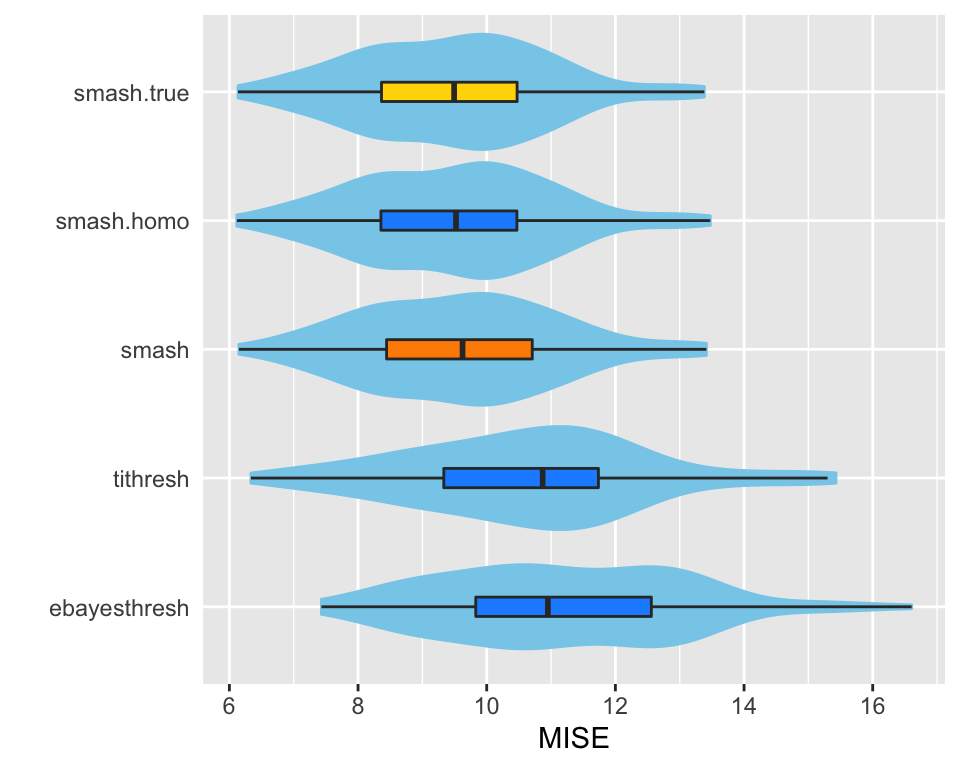
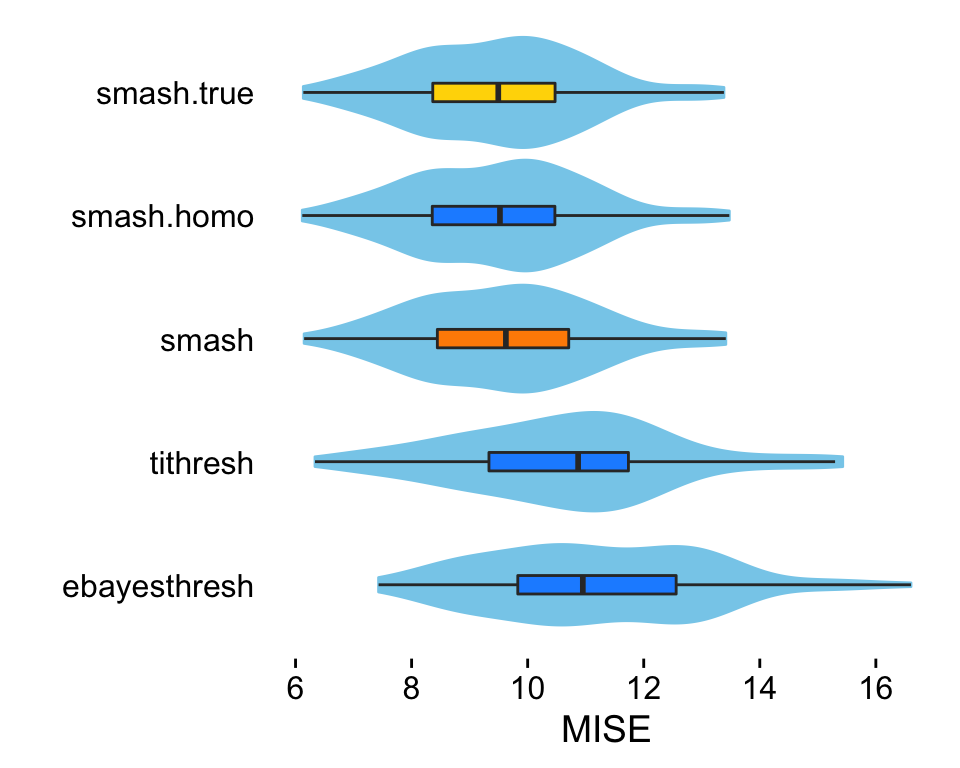
Fixed plotting settings in "gaussmeanest" workflowr analysis.

diff --git a/docs/gaussmeanest.html b/docs/gaussmeanest.html
@@ -420,16 +420,16 @@ This reproducible <a href="http://rmarkdown.rstudio.com">R Markdown</a> analysis
 <div class="panel panel-default">
 <div class="panel-heading">
 <p class="panel-title">
-<a data-toggle="collapse" data-parent="#workflowr-checks" href="#strongRepositoryversionstrongahrefhttpsgithubcomstephenslabsmashpapertree571a2214f9755384dfbf3bd74c1052a07ad452betargetblank571a221a"> <span class="glyphicon glyphicon-ok text-success" aria-hidden="true"></span> <strong>Repository version:</strong> <a href="https://github.com/stephenslab/smash-paper/tree/571a2214f9755384dfbf3bd74c1052a07ad452be" target="_blank">571a221</a> </a>
+<a data-toggle="collapse" data-parent="#workflowr-checks" href="#strongRepositoryversionstrongahrefhttpsgithubcomstephenslabsmashpapertreeec646cc5c7c864e5db9876ed4e47723736a82586targetblankec646cca"> <span class="glyphicon glyphicon-ok text-success" aria-hidden="true"></span> <strong>Repository version:</strong> <a href="https://github.com/stephenslab/smash-paper/tree/ec646cc5c7c864e5db9876ed4e47723736a82586" target="_blank">ec646cc</a> </a>
 </p>
 </div>
[2 lines of base64/hex data omitted]
 <div class="panel-body">
 <p>
 Great! You are using Git for version control. Tracking code development and connecting the code version to the results is critical for reproducibility.
 </p>
 <p>
-The results in this page were generated with repository version <a href="https://github.com/stephenslab/smash-paper/tree/571a2214f9755384dfbf3bd74c1052a07ad452be" target="_blank">571a221</a>. See the <em>Past versions</em> tab to see a history of the changes made to the R Markdown and HTML files.
+The results in this page were generated with repository version <a href="https://github.com/stephenslab/smash-paper/tree/ec646cc5c7c864e5db9876ed4e47723736a82586" target="_blank">ec646cc</a>. See the <em>Past versions</em> tab to see a history of the changes made to the R Markdown and HTML files.
 </p>
 <p>
 Note that you need to be careful to ensure that all relevant files for the analysis have been committed to Git prior to generating the results (you can use <code>wflow_publish</code> or <code>wflow_git_commit</code>). workflowr only checks the R Markdown file, but you know if there are other scripts or data files that it depends on. Below is the status of the Git repository when the results were generated:
@@ -501,6 +501,40 @@ Message
 </tr>
 </thead>
 <tbody>
+<tr>
+<td>
+Rmd
+</td>
+<td>
+<a href="https://github.com/stephenslab/smash-paper/blob/ec646cc5c7c864e5db9876ed4e47723736a82586/analysis/gaussmeanest.Rmd" target="_blank">ec646cc</a>
+</td>
+<td>
+Peter Carbonetto
+</td>
+<td>
+2020-06-16
+</td>
+<td>
+wflow_publish(“gaussmeanest.Rmd”)
+</td>
+</tr>
+<tr>
+<td>
+html
+</td>
+<td>
+<a href="https://rawcdn.githack.com/stephenslab/smash-paper/66b45bb9664273d3ddb67de72001b88c53df9799/docs/gaussmeanest.html" target="_blank">66b45bb</a>
+</td>
+<td>
+Peter Carbonetto
+</td>
+<td>
+2020-06-16
+</td>
+<td>
+Added simulated data set to Corner signal plot in “gaussmeanest”
+</td>
+</tr>
 <tr>
 <td>
 Rmd
@@ -977,7 +1011,8 @@ library(smashr)
 library(ggplot2)
 library(cowplot)
 source(&quot;../code/signals.R&quot;)
-source(&quot;../code/gaussmeanest.functions.R&quot;)</code></pre>
+source(&quot;../code/gaussmeanest.functions.R&quot;)
+theme_set(theme_cowplot())</code></pre>
 </div>
 <div id="load-results" class="section level2">
 <h2>Load results</h2>
@@ -1414,6 +1449,17 @@ Date
 </tr>
 </thead>
 <tbody>
+<tr>
+<td>
+<a href="https://github.com/stephenslab/smash-paper/blob/66b45bb9664273d3ddb67de72001b88c53df9799/docs/figure/gaussmeanest.Rmd/corner-signal-1.png" target="_blank">66b45bb</a>
+</td>
+<td>
+Peter Carbonetto
+</td>
+<td>
+2020-06-16
+</td>
+</tr>
 <tr>
 <td>
 <a href="https://github.com/stephenslab/smash-paper/blob/bc790ae6ad723cbb393b561d78be74a8d77d52f8/docs/figure/gaussmeanest.Rmd/corner-signal-1.png" target="_blank">bc790ae</a>
